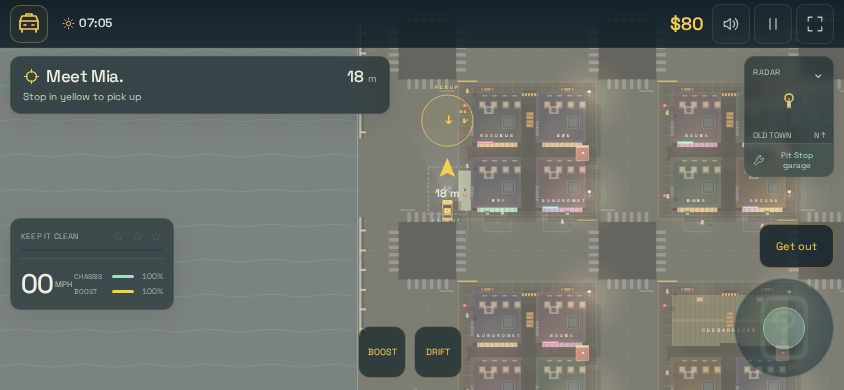
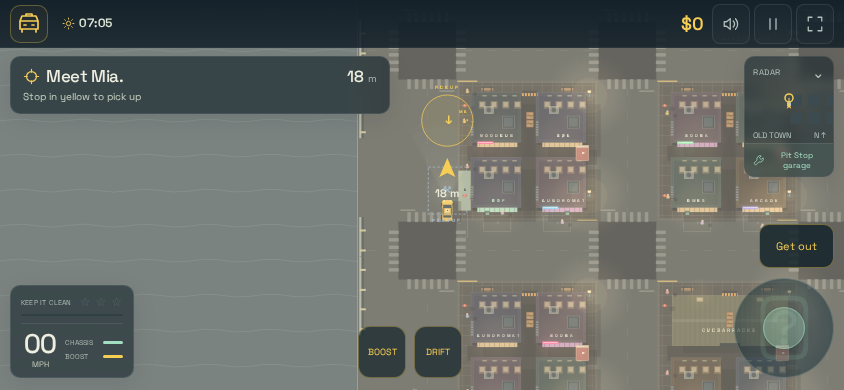
Dock the compact mobile status widget in the bottom-left corner

Changed region(s): [[0.0, 0.5538, 0.2156, 0.9846], [0.7701, 0.0308, 0.8318, 0.0923]]

diff --git a/src/style.css b/src/style.css
@@ -59,7 +59,7 @@
 .critical-status:not([hidden])~.context-action{top:215px}
 
 @media(max-width:700px), (max-width:1000px) and (max-height:500px), (pointer:coarse) and (max-width:1200px){
-  :root{--edge-left:max(10px,env(safe-area-inset-left,0px));--edge-right:max(10px,env(safe-area-inset-right,0px));--edge-bottom:max(12px,env(safe-area-inset-bottom,0px));--top-height:calc(54px + env(safe-area-inset-top,0px));--stick-size:110px;--dash-width:164px}
+  :root{--edge-left:max(10px,env(safe-area-inset-left,0px));--edge-right:max(10px,env(safe-area-inset-right,0px));--edge-bottom:max(12px,env(safe-area-inset-bottom,0px));--top-height:calc(54px + env(safe-area-inset-top,0px));--stick-size:110px;--dash-width:124px}
   .topbar{height:var(--top-height);padding:env(safe-area-inset-top,0px) var(--edge-right) 0 var(--edge-left);gap:8px;z-index:5}
   .brand{font-size:16px;gap:6px;letter-spacing:-.7px}
   .brand-icon{width:38px;height:38px;border-radius:10px}
@@ -87,8 +87,8 @@
   .mission.on-foot .mobile-hint{display:none}
   .job-progress{grid-column:1/-1;margin:4px -12px -9px}
   .mission.on-foot .job-progress{display:none}
-  .dashboard{top:auto;bottom:calc(var(--edge-bottom) + 68px);left:var(--edge-left);right:auto;width:var(--dash-width);padding:8px 10px;display:grid;grid-template-columns:46px minmax(0,1fr);gap:7px;align-items:center;border-radius:10px;background:#14232a99;backdrop-filter:blur(5px)}
-  .speed{gap:3px;align-self:center}
+  .dashboard{top:auto;bottom:var(--edge-bottom);left:var(--edge-left);right:auto;width:var(--dash-width);padding:8px 10px;display:grid;grid-template-columns:38px minmax(0,1fr);gap:6px;align-items:center;border-radius:10px;background:#14232a99;backdrop-filter:blur(5px)}
+  .speed{flex-direction:column;gap:2px;align-items:center;align-self:center}
   .speed>strong{font-size:27px;letter-spacing:-1.4px}
   .speed>span{font-size:8px;letter-spacing:0;margin:0}
   .speed small{display:none}
@@ -96,12 +96,12 @@
   .cab-meters>div{font-size:7px;letter-spacing:0;gap:4px;margin:5px 0}
   .cab-meters>div>span{width:34px;font-size:7px}
   .cab-meters kbd{display:none}
-  .cab-meters b{font-size:8px;min-width:25px}
+  .cab-meters b{position:absolute;width:1px;height:1px;min-width:0;margin:-1px;padding:0;overflow:hidden;clip-path:inset(50%);white-space:nowrap;border:0}
   .meter{height:3px;min-width:12px}
   .dashboard-footer{display:none}
   .dashboard .heat-panel{position:static;grid-column:1/-1;grid-row:1;width:auto;border:0;border-bottom:1px solid var(--border);padding:0 0 7px;min-width:0}
-  .heat-top{font-size:8px;letter-spacing:.2px;gap:3px}
-  .heat-top #stars{font-size:14px;letter-spacing:1px;white-space:nowrap}
+  .heat-top{font-size:7px;letter-spacing:.2px;gap:3px}
+  .heat-top #stars{font-size:12px;letter-spacing:1px;white-space:nowrap}
   .dashboard .heat-track{margin:4px 0 0;height:2px}
   .dashboard .heat-panel.wanted small{display:none}
   .map-panel{top:calc(var(--top-height) + 87px);right:var(--edge-right);bottom:auto;left:auto;width:100px;border-radius:10px;background:#14232a99;backdrop-filter:blur(5px)}
@@ -114,7 +114,7 @@
   .garage-button kbd{display:none}
   .controls{display:none}
   .touch-controls{display:block;position:fixed;z-index:4;inset:auto var(--edge-right) var(--edge-bottom) var(--edge-left);height:var(--stick-size);pointer-events:none}
-  .touch-controls .thumb-actions{position:absolute;bottom:0;left:calc(50% - 64px);display:flex;gap:8px;align-items:end}
+  .touch-controls .thumb-actions{position:absolute;bottom:0;left:max(calc(50% - 64px),calc(var(--dash-width) + 8px));display:flex;gap:8px;align-items:end}
   .touch-controls button[data-key]{width:48px;height:52px;min-height:48px;font-size:9px;border:1px solid #f7ce5555;background:#14232ab8;color:var(--gold);border-radius:12px;touch-action:none;pointer-events:auto}
   .touch-controls button.pressed{background:#f7ce5555;border-color:var(--gold)}
   .touch-controls button:disabled{opacity:.3}
@@ -135,12 +135,12 @@
   .debug-panel{bottom:var(--edge-bottom)}
 }
 @media(max-width:360px){
-  :root{--stick-size:92px;--dash-width:142px}
+  :root{--stick-size:92px;--dash-width:124px}
   .topbar{gap:4px}.icon-button{width:34px}.cash strong{font-size:16px}
-  .dashboard{padding:7px;gap:5px;grid-template-columns:40px minmax(0,1fr)}
+  .dashboard{padding:7px;gap:5px;grid-template-columns:38px minmax(0,1fr)}
   .speed>strong{font-size:24px}
   .cab-meters>div>span{width:29px;font-size:7px}
-  .touch-controls .thumb-actions{left:calc(50% - 52px);gap:6px}
+  .touch-controls .thumb-actions{left:max(calc(50% - 22px),calc(var(--dash-width) + 8px));flex-direction:column;gap:6px}
   .touch-controls button[data-key]{width:44px}
   .mission h1{font-size:15px}
 }

diff --git a/docs/mobile-controls.md b/docs/mobile-controls.md
@@ -2,7 +2,7 @@
 
 The taxi icon opens **How to play** and **Test lab**. The bottom menu is removed on phones/tablets, and closing the lab removes its collapsed toolbar on those screens. The far-right header button enters/exits fullscreen, using standard or prefixed WebKit APIs. Browsers without element fullscreen show a short explanation; the game does not claim to be fullscreen.
 
-A bottom-left translucent stack places police pursuit/stars above speed, health/chassis and boost. The bottom-right joystick has circular travel, a centre dead zone and proportional input: up accelerates, down brakes/reverses, sideways steers; on foot, its direction and deflection control walking. BOOST and DRIFT accept a second finger independently in the bottom centre. Release, cancellation, capture loss, focus loss, pause, death and viewport changes clear held touch input.
+A 124 px translucent stack sits in the bottom-left safe-area corner, with police pursuit/stars above speed, health/chassis and boost. MPH sits below the speed, and meter percentages are visually hidden while remaining available to screen readers. On narrow phones the centre action buttons stack vertically to keep all controls separate. The bottom-right joystick has circular travel, a centre dead zone and proportional input: up accelerates, down brakes/reverses, sideways steers; on foot, its direction and deflection control walking. BOOST and DRIFT accept a second finger independently in the bottom centre. Release, cancellation, capture loss, focus loss, pause, death and viewport changes clear held touch input.
 
 The generic on-foot card is removed. Get in / Ride motorbike appears beside an accessible parked ride, Get out / Dismount appears at safe speeds, and Bail out appears during a fire. Burning-vehicle warnings remain. The mobile mission shows the current objective, distance, and a short pickup/delivery instruction. Find a ride is one row with no fare or keyboard instructions.
 
